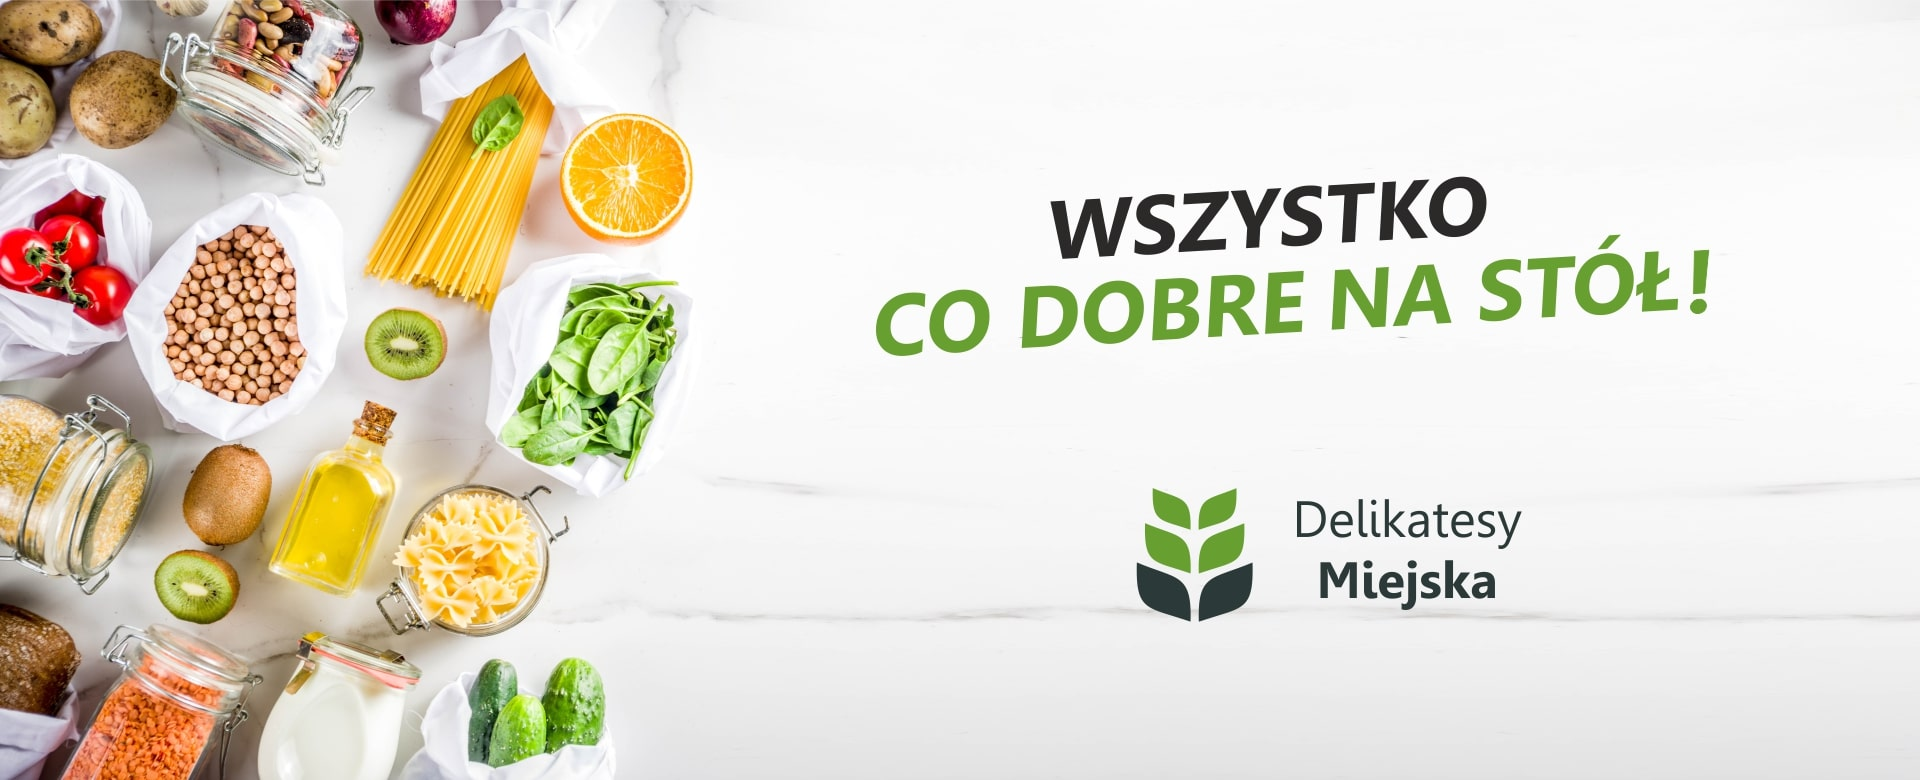
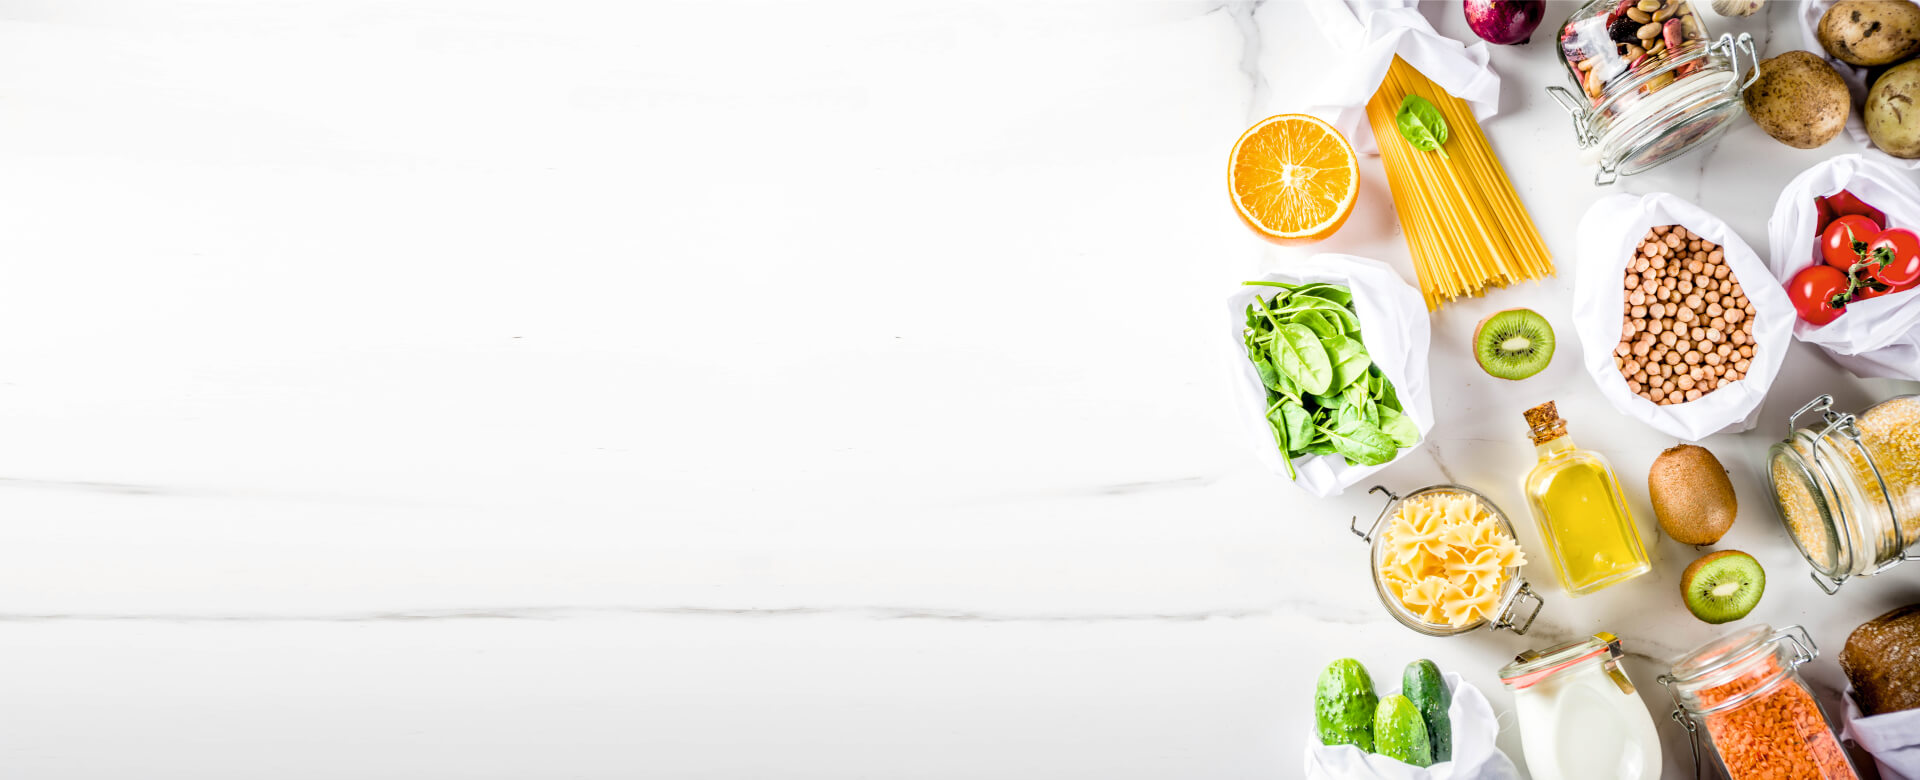
nowe slidery

diff --git a/index.html b/index.html
@@ -173,10 +173,10 @@
                         <div class="content-box">
                             <div class="content">
                                 <div class="inner">
-                                    <div class="sub-title">The best Agriculture products</div>
-                                    <h1>Welcome to<br> agriculture Form</h1>
+                                    <div class="sub-title">naglowek </div>
+                                    <h1>haslo<br> reklamowe</h1>
                                     <div class="link-box">
-                                        <a href="about.html" class="thm-btn">Discover More</a>
+                                    <!--    <a href="about.html" class="thm-btn">Discover More</a> -->
                                     </div>
                                 </div>
                             </div>
@@ -191,10 +191,10 @@
                         <div class="content-box">
                             <div class="content">
                                 <div class="inner">
-                                    <div class="sub-title">The best Agriculture products</div>
-                                    <h1>Welcome to<br> agriculture Form</h1>
+                                    <div class="sub-title">NA BUDOWY I REMONTY</div>
+                                    <h1>haslo<br> reklamowe</h1>
                                     <div class="link-box">
-                                        <a href="about.html" class="thm-btn">Discover More</a>
+                                        <a href="about.html" class="thm-btn">KLIK</a>
                                     </div>
                                 </div>
                             </div>
@@ -209,17 +209,34 @@
                         <div class="content-box">
                             <div class="content">
                                 <div class="inner">
-                                    <div class="sub-title">The best Agriculture products</div>
-                                    <h1>Welcome to<br> agriculture Form</h1>
+                                    <div class="sub-title">wszystko co dobre na stół</div>
+                                    <h1>haslo<br> reklamowe</h1>
                                     <div class="link-box">
-                                        <a href="about.html" class="thm-btn">Discover More</a>
+                                        <a href="about.html" class="thm-btn">KLIK</a>
                                     </div>
                                 </div>
                             </div>
                         </div>
                     </div>
                 </div>
-
+				<!-- Slide Item -->
+                <div class="slide-item">
+                    <div class="image-layer" style="background-image: url(assets/images/main-slider/slide_v1_4.jpg);">
+                    </div>
+                    <div class="auto-container">
+                        <div class="content-box">
+                            <div class="content">
+                                <div class="inner">
+                                    <div class="sub-title">rozsmakuj się w ciastach i tortach od naszych cukierników</div>
+                                    <h1>haslo<br> reklamowe</h1>
+                                    <div class="link-box">
+                                        <a href="about.html" class="thm-btn">KLIK</a>
+                                    </div>
+                                </div>
+                            </div>
+                        </div>
+                    </div>
+                </div>
 
             </div>
         </section>
@@ -247,7 +264,7 @@
                     <div class="col-xl-6 col-lg-6">
                         <div class="block-title text-left">
                             <p>About agriculture</p>
-                            <h3>We’re leader in agriculture market</h3>
+                            <h3>Wszystko, co dobre, na stół</h3>
                             <div class="leaf">
                                 <img src="assets/images/resources/leaf.png" alt="">
                             </div>
